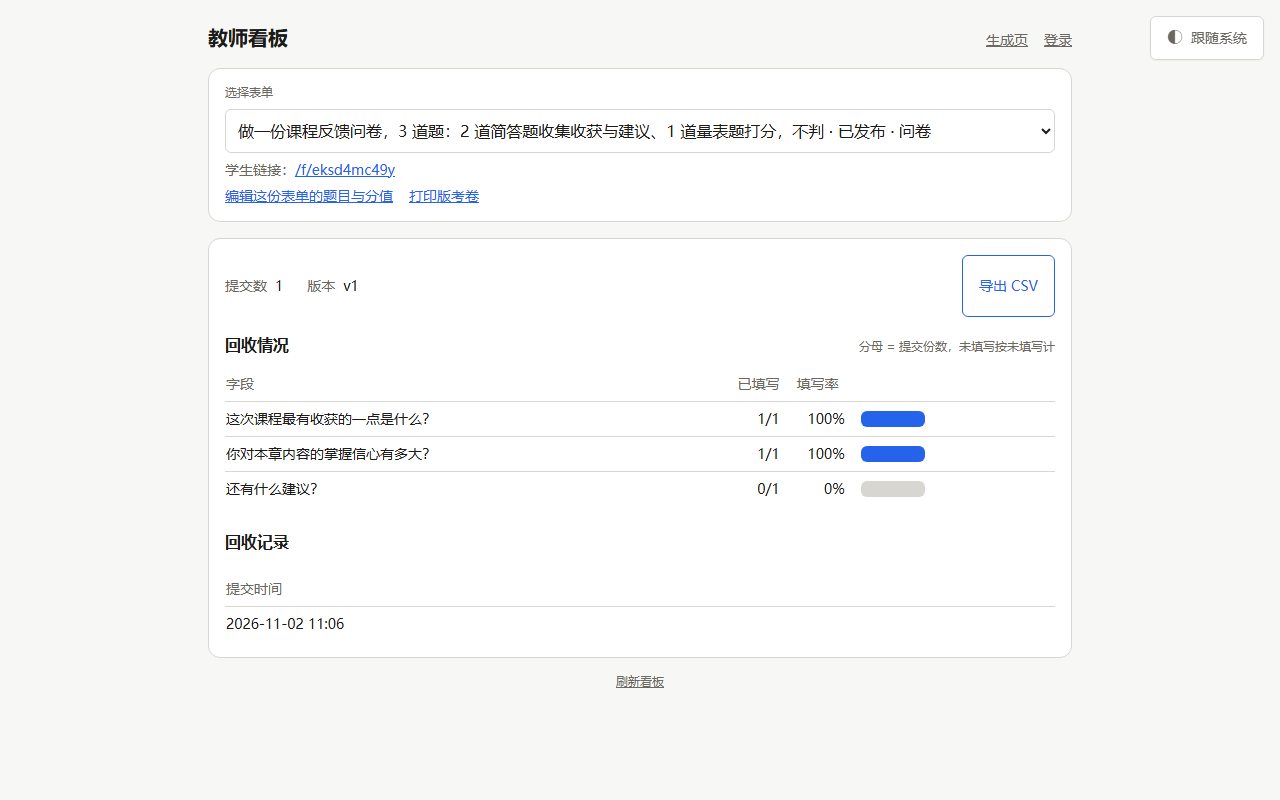
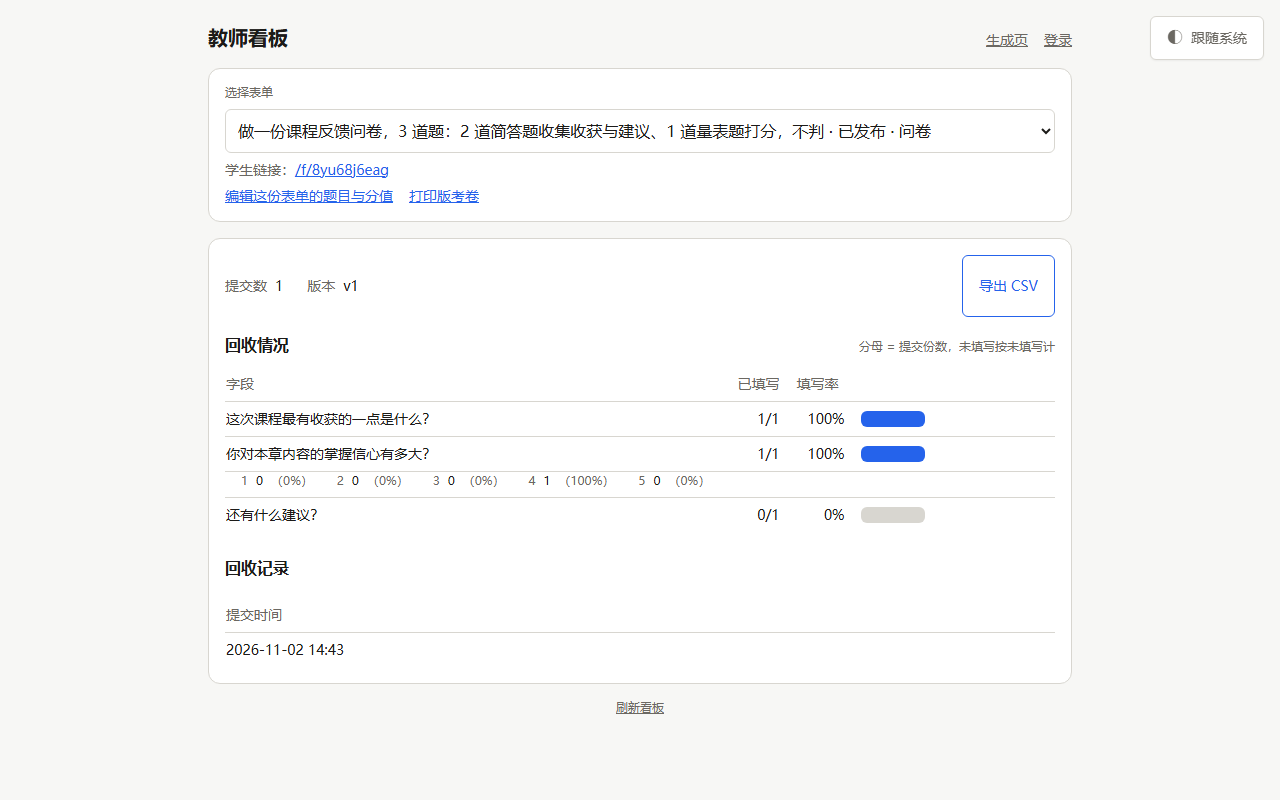
docs(evidence): 回收看板重跑截图，索引写明选项分布断言 [P17]

diff --git a/docs/evidence/README.md b/docs/evidence/README.md
@@ -55,8 +55,10 @@ node scripts/browser-closed-loop.mjs   # 期望：每步截图进本目录 + std
 第 10 步是 R-09 的界面级证据：在生成页**选「问卷」**后，时间线出现「判定为 问卷」
 （kind 真的传到了生成链路），问卷字段不带答案/分值；发布后手机视口填写、成功卡片
 只有「已提交」；教师看板是「回收情况」逐字段表与「回收记录」，**不出现平均分、
-满分或 `0 / 0`**，CSV 里能查到刚提交的答案。`verify.mjs` 的 VC11 验的是同一链路的
-HTTP 语义，两者分工与前面各步一致。
+满分或 `0 / 0`**，逐字段行下方列出各选项分布（脚本断言量表「4」这一档为
+`count=1`、占比 `100%`），CSV 里能查到刚提交的答案。`verify.mjs` 的 VC11 用两份
+提交（量表 4 分与 2 分）核对同一份分布口径：选中档 `rate=0.5`、未选档 `count=0`。
+两者分工与前面各步一致。
 
 第 11 步是 A-17（打印版考卷）的界面级证据：卷面题号只数题目、默认不含答案，
 勾选「含答案与解析」后出现答案与解析；`Emulation.setEmulatedMedia({media:"print"})`
